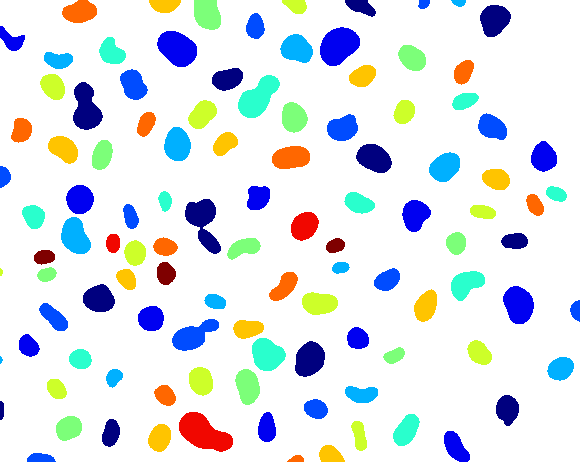
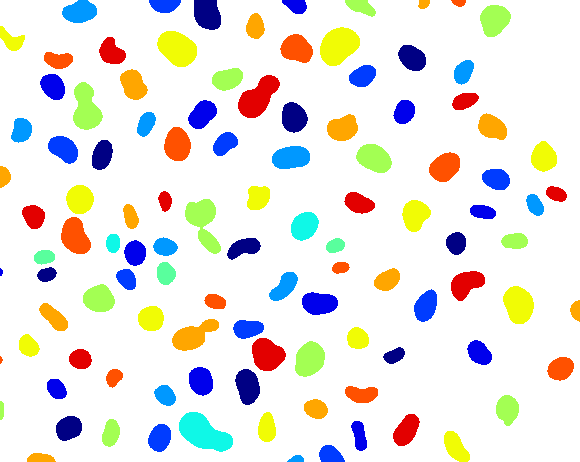
Add `phase` parameter

diff --git a/tools/colorize_labels/colorize_labels.py b/tools/colorize_labels/colorize_labels.py
@@ -43,12 +43,11 @@ def build_label_adjacency_graph(im, radius, bg_label):
     return G
 
 
-def get_n_unique_mpl_colors(n: int, colormap: str = 'jet'):
+def get_n_unique_mpl_colors(n: int, phase_offset: float, colormap: str = 'jet'):
     """
     Yields `n` unique colors from the given `colormap`.
     """
     cmap = plt.get_cmap(colormap)
-    phase_offset = np.random.rand()
     for t in np.linspace(0, 1, num=n, endpoint=False):
         f = (t + phase_offset) % 1
         yield np.multiply(255, cmap(f))
@@ -61,6 +60,7 @@ if __name__ == '__main__':
     parser.add_argument('--bg_label', type=int)
     parser.add_argument('--bg_color', type=str)
     parser.add_argument('--radius', type=int)
+    parser.add_argument('--phase', type=float)
     parser.add_argument('--output', type=str)
     args = parser.parse_args()
 
@@ -80,7 +80,11 @@ if __name__ == '__main__':
     unique_colors = frozenset(graph_coloring.values())
 
     # Assign colors to nodes based on the greedy coloring
-    graph_color_to_mpl_color = dict(zip(unique_colors, get_n_unique_mpl_colors(len(unique_colors))))
+    colors = get_n_unique_mpl_colors(
+        n=len(unique_colors),
+        phase_offset=args.phase,
+    )
+    graph_color_to_mpl_color = dict(zip(unique_colors, colors))
     node_colors = [graph_color_to_mpl_color[graph_coloring[n]] for n in G.nodes()]
 
     # Render result
